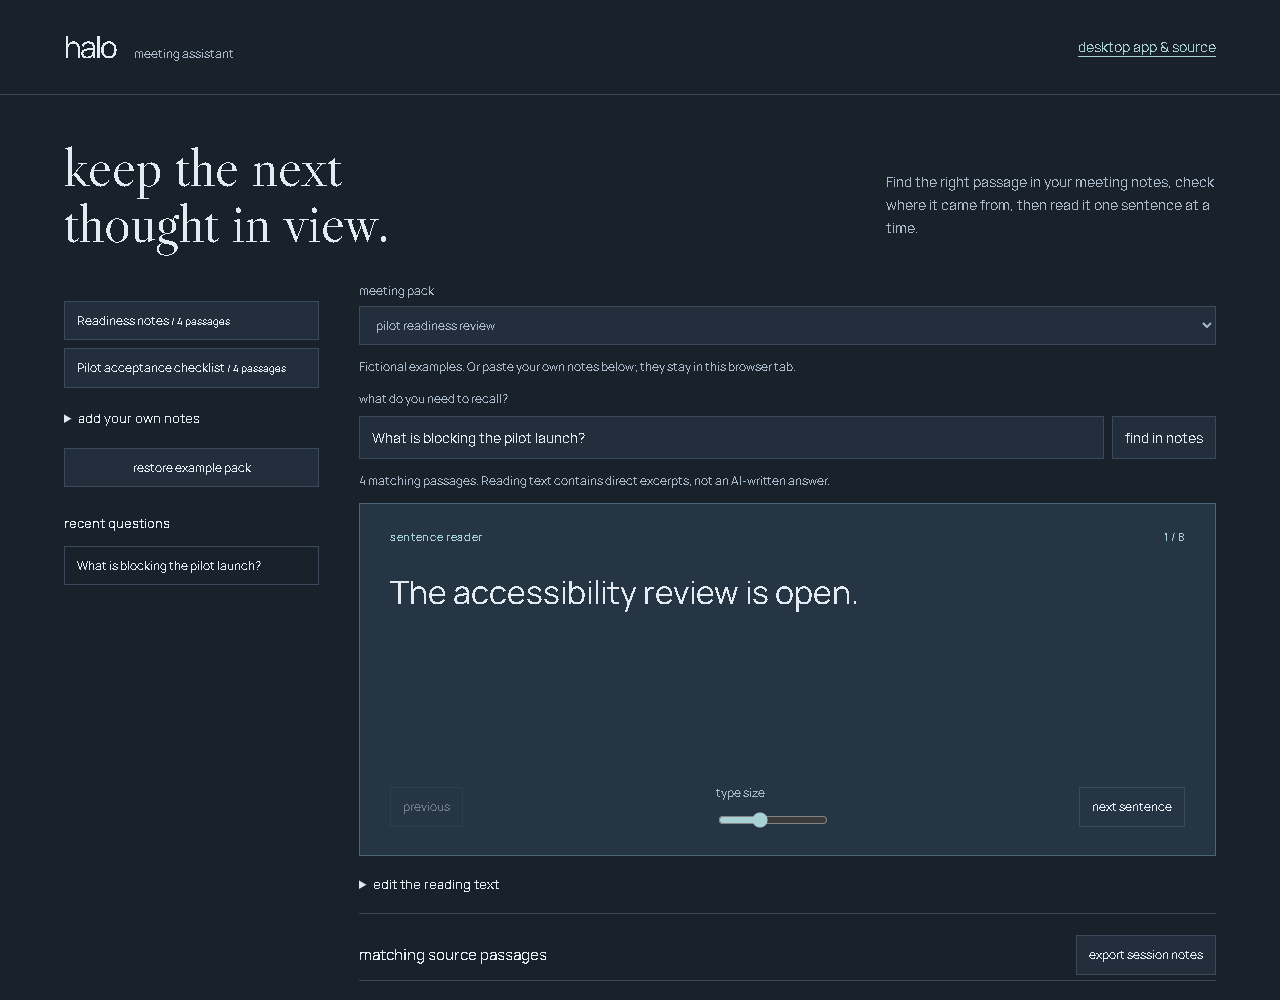
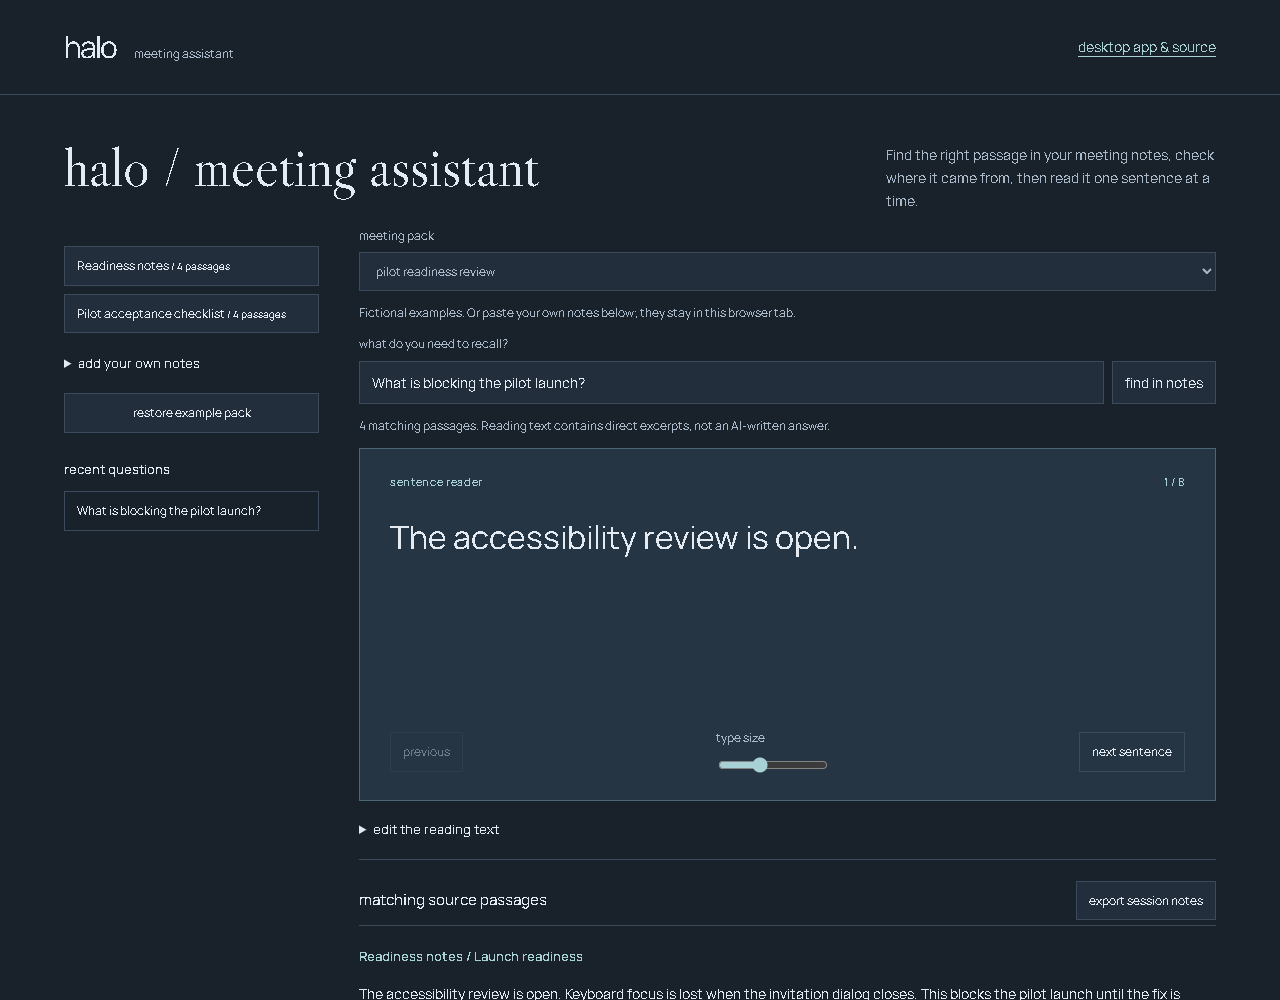
Make the project purpose and primary browsing workflow easier to find

diff --git a/examples/portfolio/index.html b/examples/portfolio/index.html
@@ -14,7 +14,7 @@
         </header>
         <main>
             <div class="intro">
-                <h1>keep the next<br />thought in view.</h1>
+                <h1>halo / meeting assistant</h1>
                 <p>
                     Find the right passage in your meeting notes, check where it
                     came from, then read it one sentence at a time.
